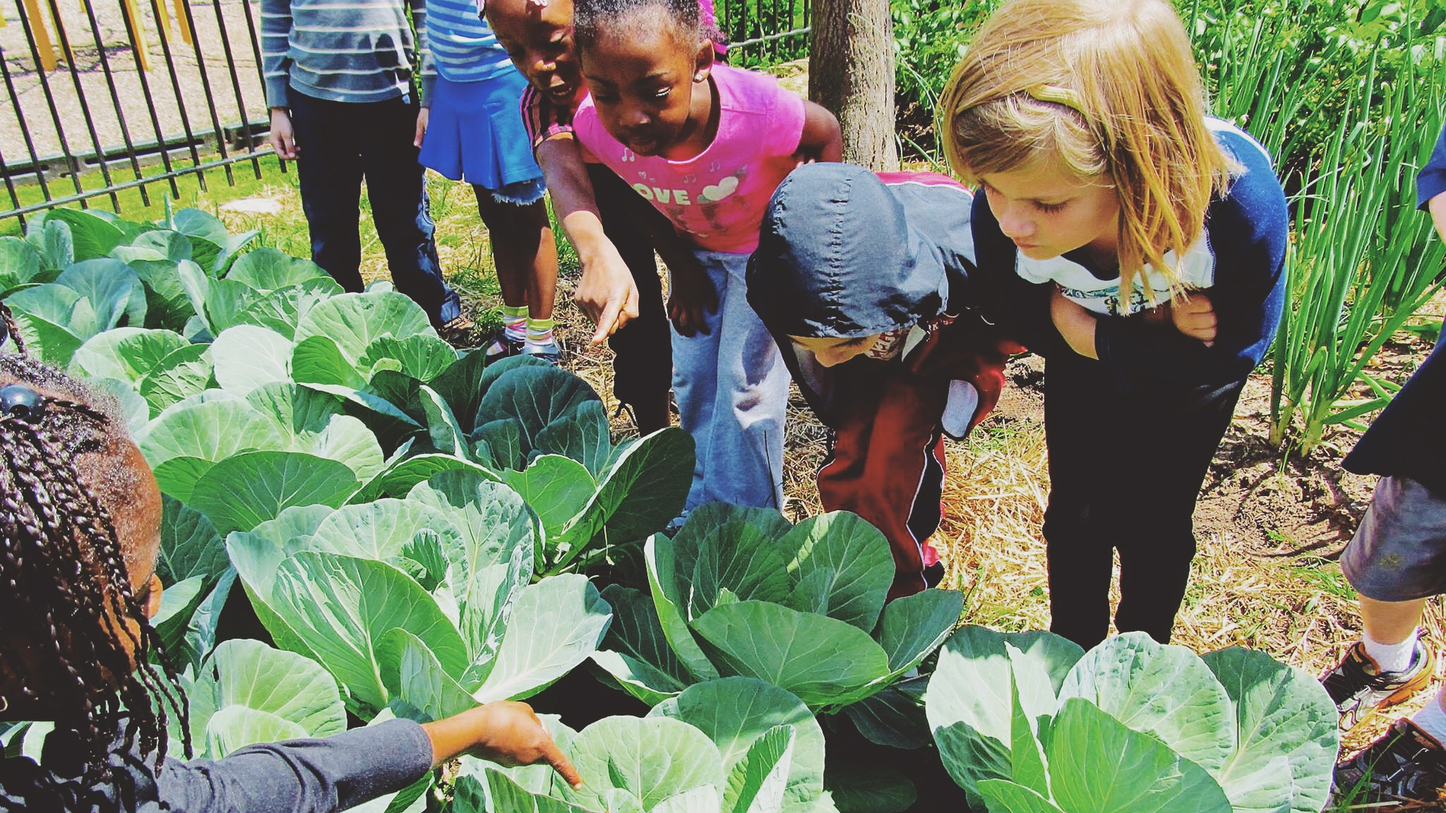
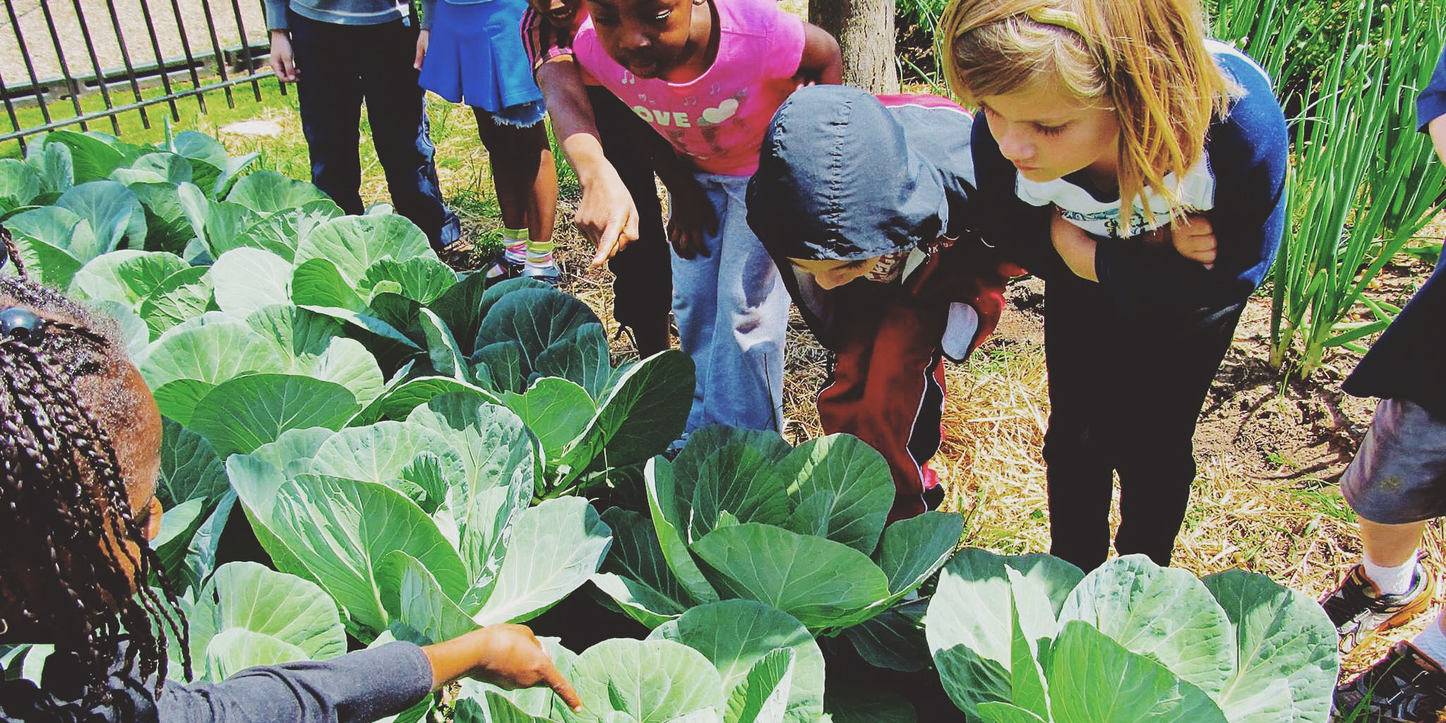
Add margin helpers

diff --git a/src/Home.css b/src/Home.css
@@ -1,0 +1,46 @@
+.u-margin-top-x-large {
+	margin-top: 3rem;
+}
+
+.u-margin-top-large {
+	margin-top: 1.5rem;
+}
+
+.u-margin-top-medium {
+	margin-top: .75rem;
+}
+
+.u-margin-top-small {
+	margin-top: .375rem;
+}
+
+/* Larger than mobile */
+@media (min-width: 400px) {}
+
+/* Larger than phablet (also point when grid becomes active) */
+@media (min-width: 550px) {
+	.u-margin-top-x-large {
+		margin-top: 4rem;
+	}
+
+	.u-margin-top-large {
+		margin-top: 2rem;
+	}
+
+	.u-margin-top-medium {
+		margin-top: 1rem;
+	}
+
+	.u-margin-top-small {
+		margin-top: .5rem;
+	}
+}
+
+/* Larger than tablet */
+@media (min-width: 750px) {}
+
+/* Larger than desktop */
+@media (min-width: 1000px) {}
+
+/* Larger than Desktop HD */
+@media (min-width: 1200px) {}

diff --git a/src/Header.js b/src/Header.js
@@ -9,13 +9,13 @@ const Header = ({ alt, hero, text }) => (
 		<Row>
 			<img
 				alt={alt}
-				className="u-max-full-width u-margin-top-large"
+				className="u-max-full-width u-margin-top-x-large"
 				src={hero}
 			/>
 		</Row>
 
 		<Row>
-			<h4 className="u-margin-top-large">{text}</h4>
+			<h4 className="u-margin-top-medium">{text}</h4>
 		</Row>
 	</div>
 );
